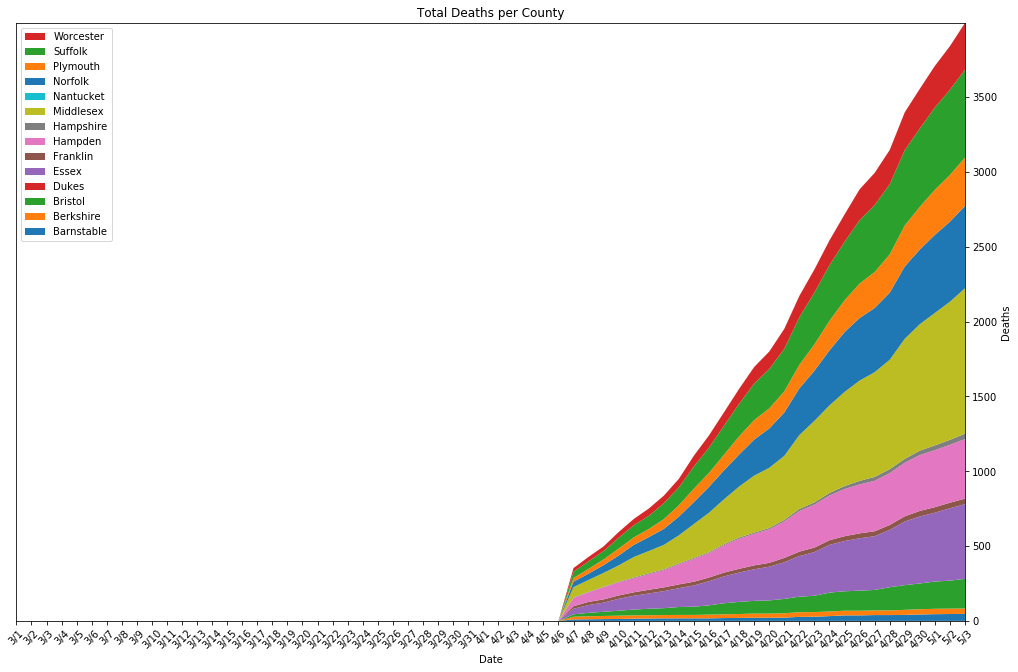
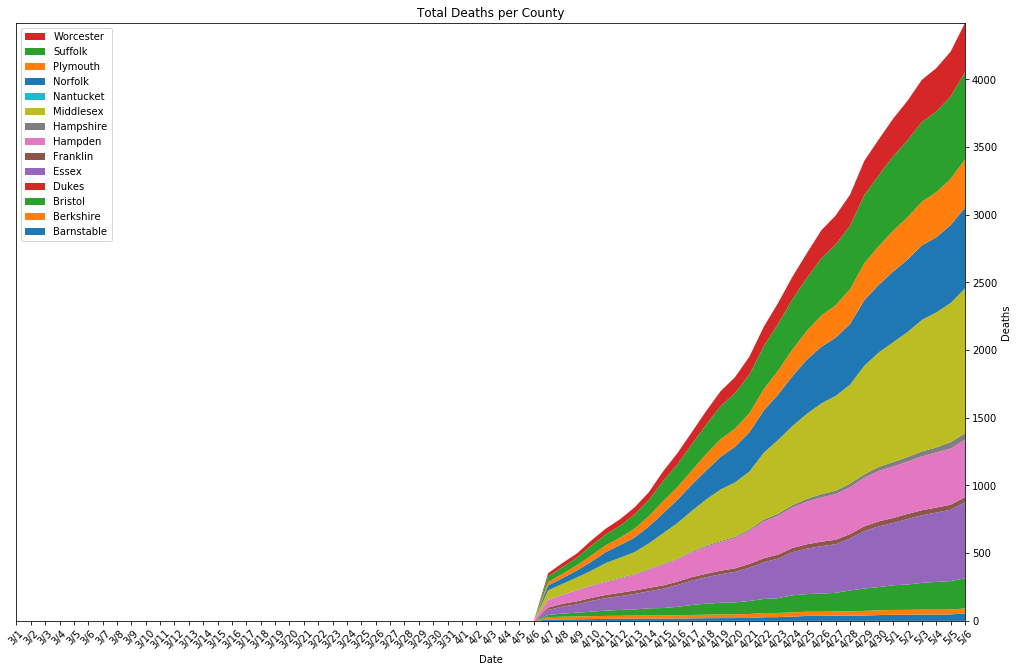
covid

diff --git a/_posts/2020-05-06-Massachusetts COVID-19 Tracker.md b/_posts/2020-05-06-Massachusetts COVID-19 Tracker.md
@@ -1,0 +1,140 @@
+---
+layout: post
+title: "Massachusetts COVID-19 Tracker"
+img: MASS19_thumbnail.jpg
+img_thumbnail: MASS19_thumbnail_FULL.jpg
+date: 2020-05-06 12:54:00 +0300
+description: None. 
+tag: ['COVID-19', 'Coronavirus', 'Massachusetts']
+---
+
+
+
+
+
+
+
+
+
+
+
+
+
+
+
+
+
+
+
+
+
+
+
+
+
+
+<p align="center">
+    <img src="https://sdamolini.github.io/assets/img/MASS19/output_7_0.png" style="max-width:840px;">
+</p>
+
+
+
+
+
+
+
+
+
+
+
+
+
+
+
+<p align="center">
+    <img src="https://sdamolini.github.io/assets/img/MASS19/output_9_0.png" style="max-width:840px;">
+</p>
+
+
+
+
+
+
+
+
+
+
+
+
+
+
+
+
+
+<p align="center">
+    <img src="https://sdamolini.github.io/assets/img/MASS19/output_12_0.png" style="max-width:840px;">
+</p>
+
+
+
+
+
+
+
+
+
+
+
+
+
+
+
+<p align="center">
+    <img src="https://sdamolini.github.io/assets/img/MASS19/output_14_0.png" style="max-width:840px;">
+</p>
+
+
+
+
+
+
+
+
+
+
+
+
+
+
+
+
+
+
+
+
+
+
+
+<p align="center">
+    <img src="https://sdamolini.github.io/assets/img/MASS19/output_17_0.png" style="max-width:840px;">
+</p>
+
+
+
+
+
+<p align="center">
+    <img src="https://sdamolini.github.io/assets/img/MASS19/output_18_0.png" style="max-width:840px;">
+</p>
+
+
+Source of data: <a href="https://www.mass.gov/info-details/covid-19-cases-quarantine-and-monitoring" target="_blank">www.mass.gov</a>.  
+This is a work in progress with daily updates. If you have feedback, please send it to <a href="mailto:feedback@damolini.com">feedback@mass19.com</a>.
+
+
+
+
+
+
+
+
